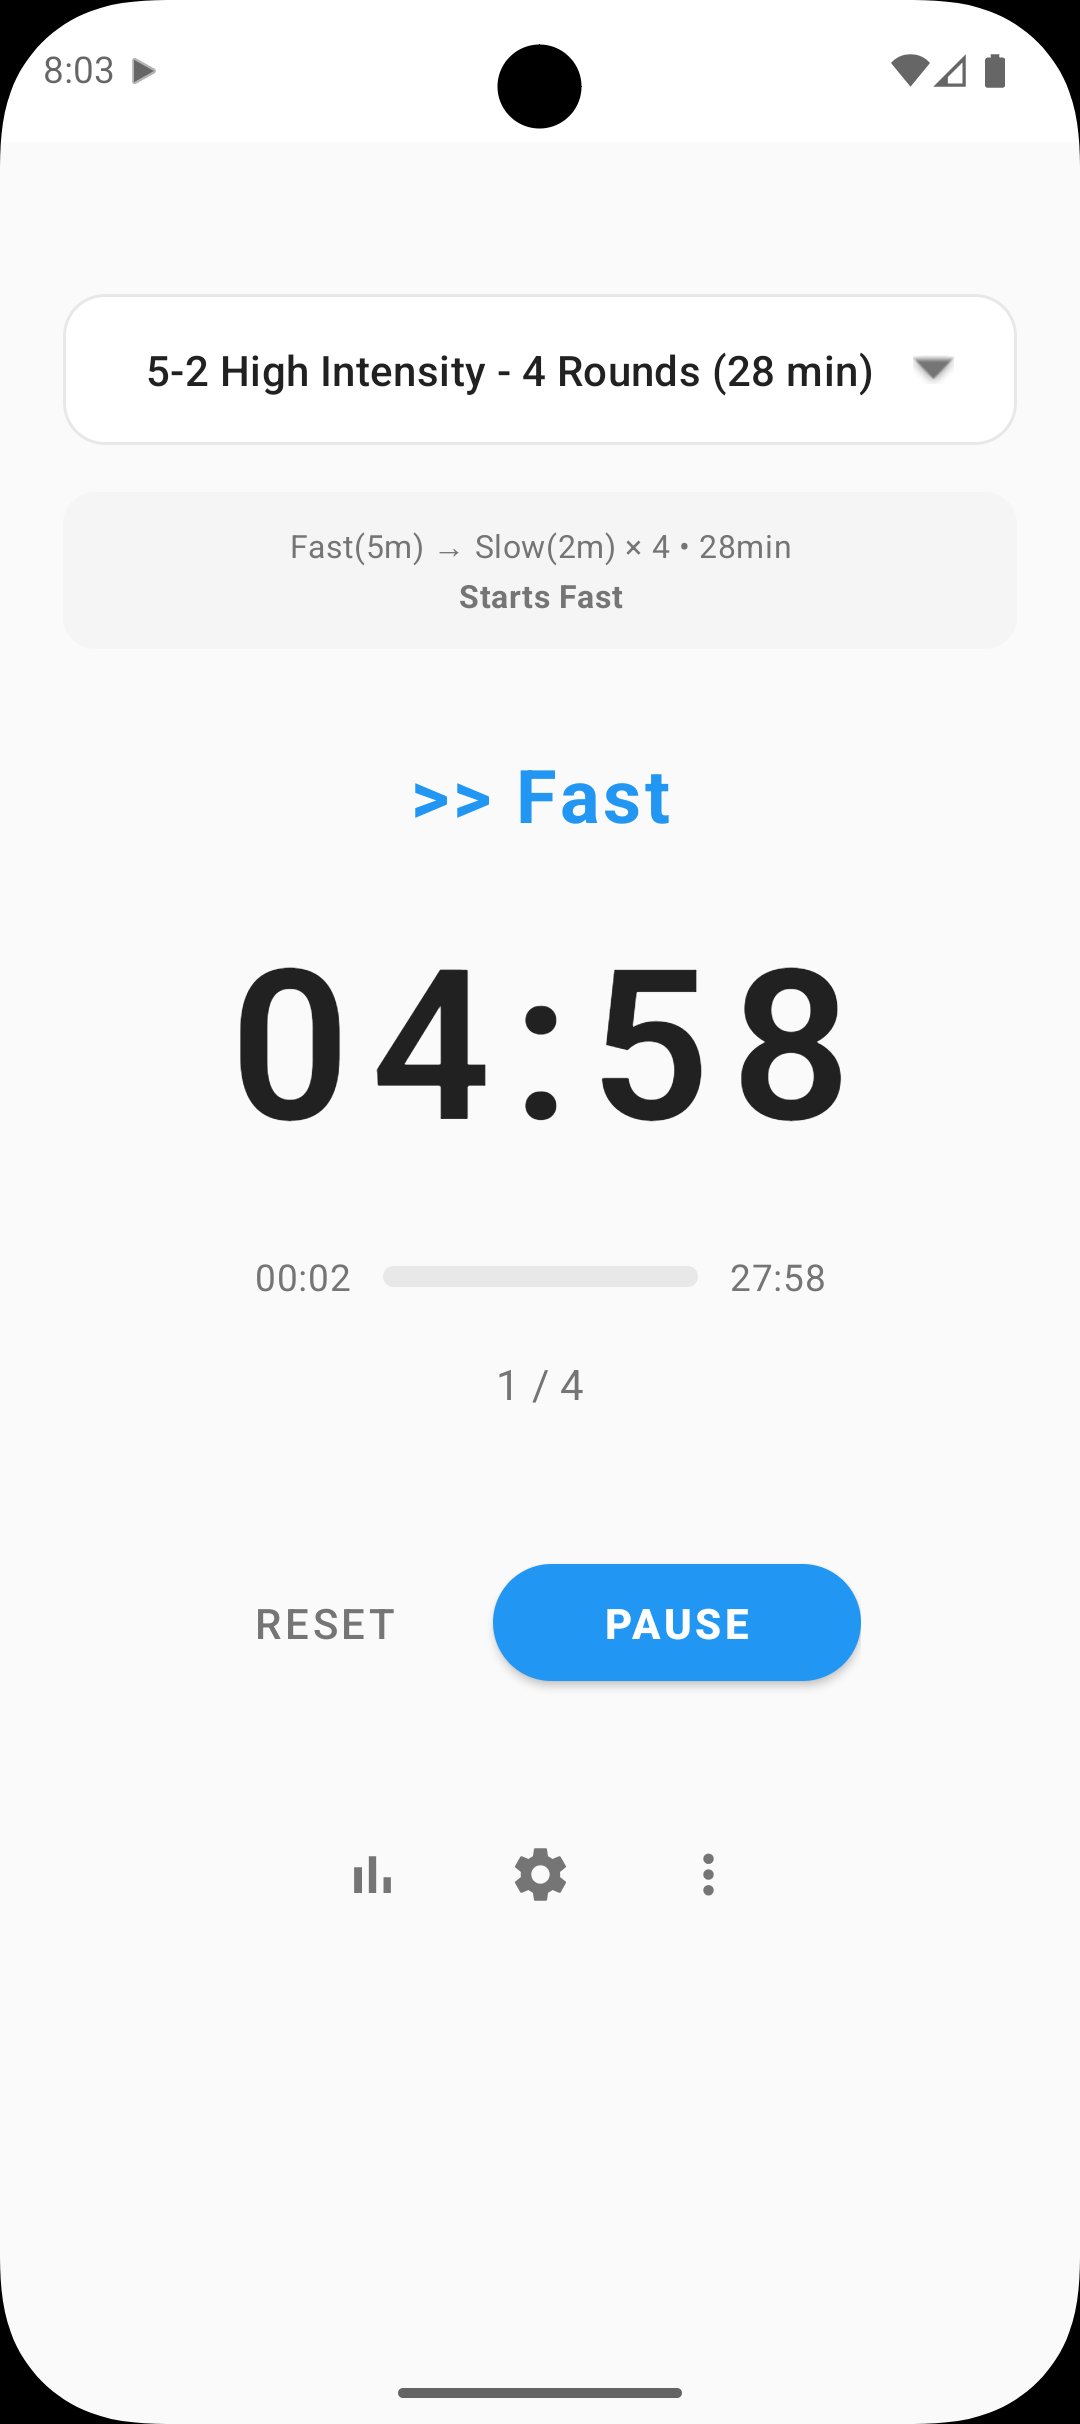
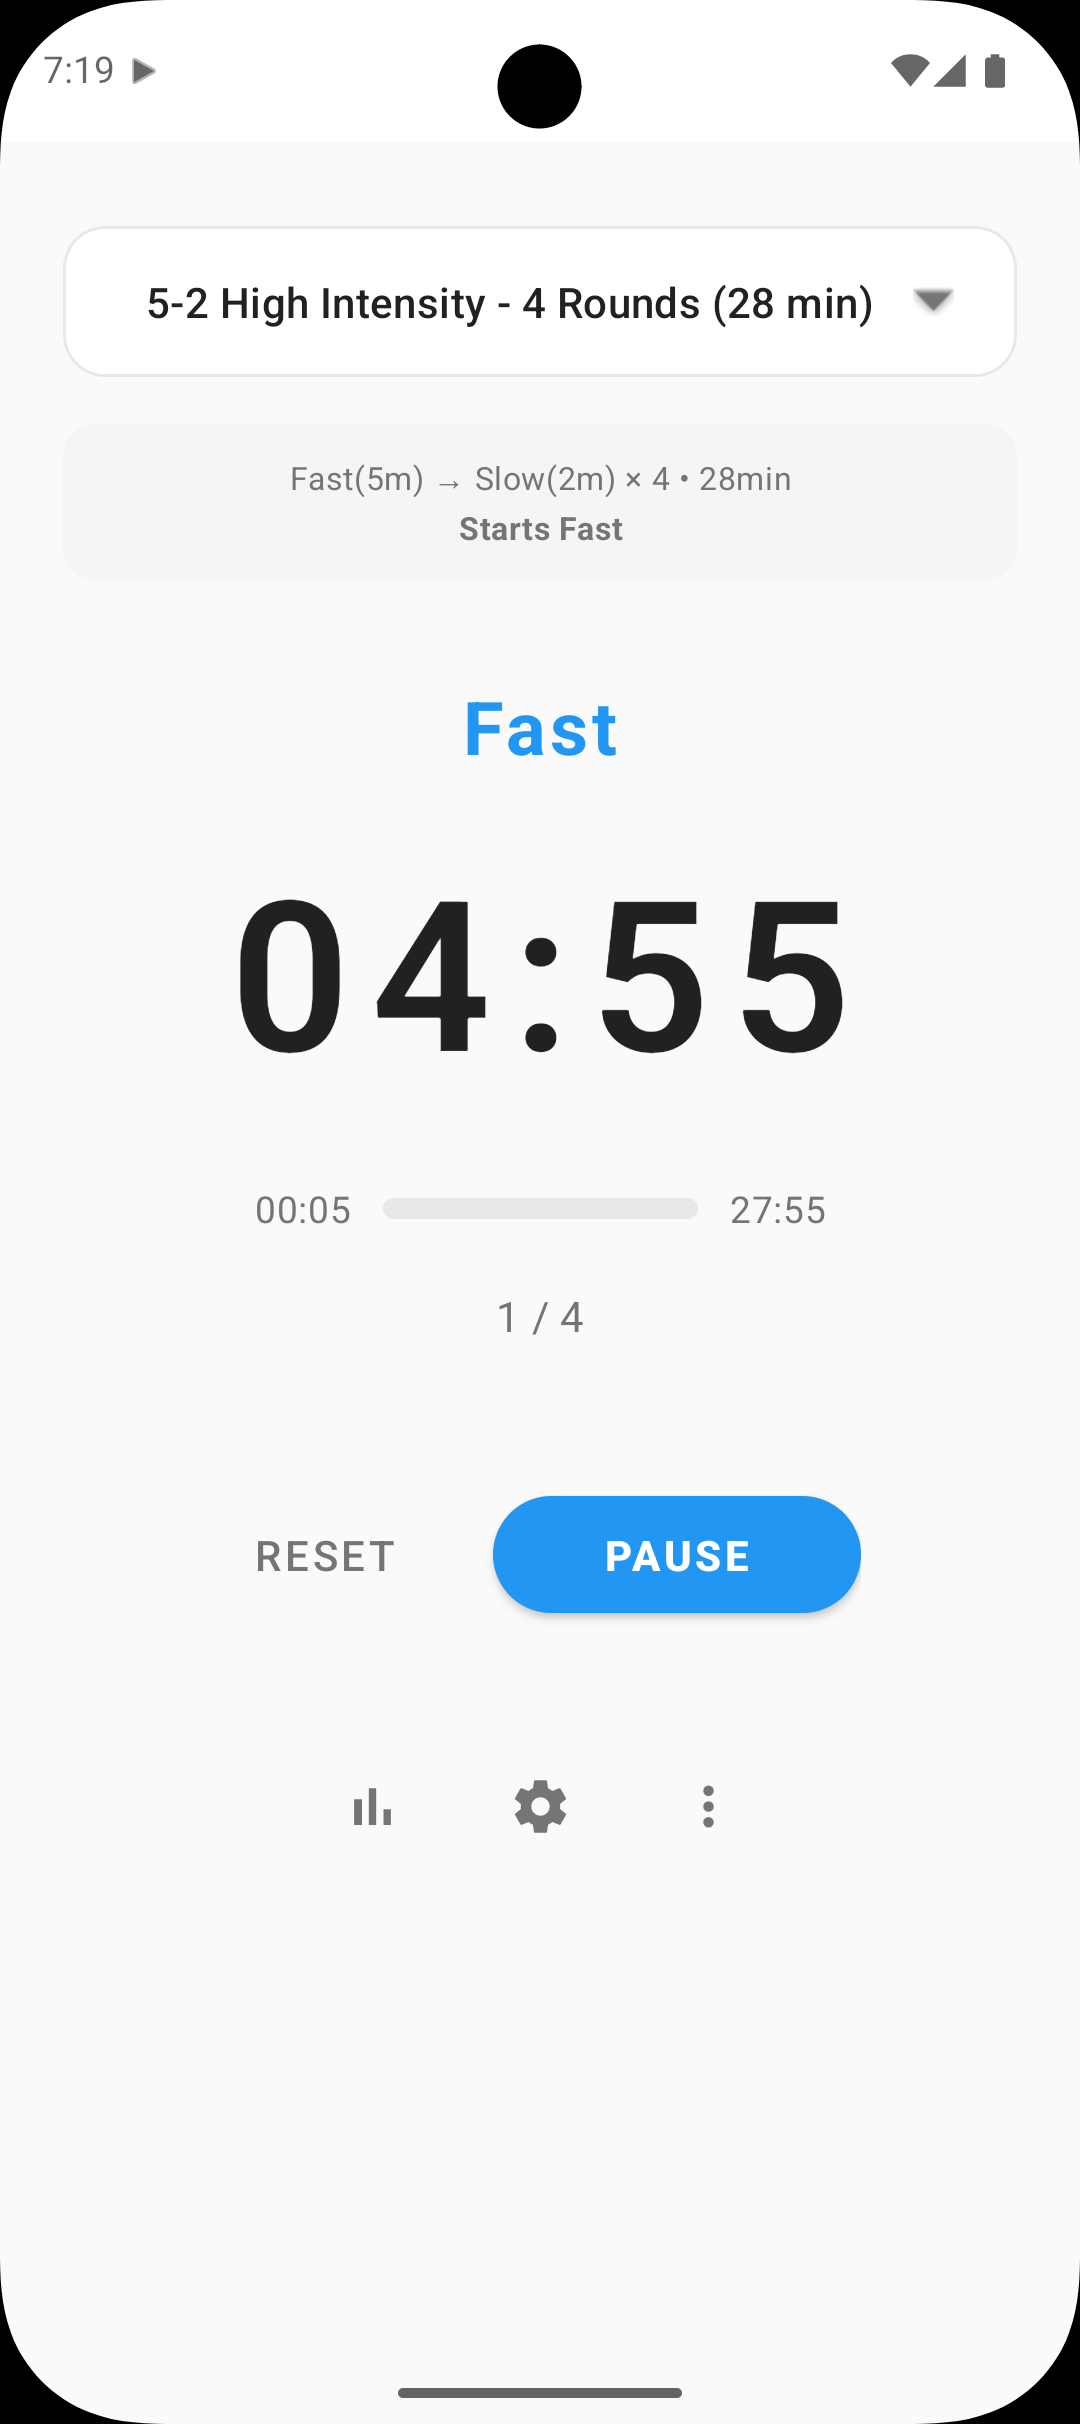
chore(release): v1.0.20
zero-trend badge, plain Slow/Fast labels, store assets

diff --git a/app/src/main/java/com/oceanofmaya/intervalwalktrainer/StatsActivity.kt b/app/src/main/java/com/oceanofmaya/intervalwalktrainer/StatsActivity.kt
@@ -669,8 +669,18 @@ class StatsActivity : AppCompatActivity() {
                 arrowView.visibility = View.VISIBLE
                 percentView.visibility = View.GONE
             }
+            changePercent == 0.0 && previousValue > 0 -> {
+                // No change - show neutral indicator so both cards keep same badge row
+                val neutralColor = ContextCompat.getColor(this, R.color.text_secondary)
+                arrowView.text = "\u2212" // Unicode minus
+                arrowView.setTextColor(neutralColor)
+                arrowView.visibility = View.VISIBLE
+                percentView.text = getString(R.string.month_comparison_change, 0)
+                percentView.setTextColor(neutralColor)
+                percentView.visibility = View.VISIBLE
+            }
             else -> {
-                // No change or no data - hide badge
+                // No data - hide badge
                 arrowView.visibility = View.GONE
                 percentView.visibility = View.GONE
             }

diff --git a/CHANGELOG.md b/CHANGELOG.md
@@ -2,6 +2,14 @@
 
 ## Version 1
 
+### 1.0.20 - 2026-03-04
+
+#### UI/UX Improvements
+
+- **Workout History (Monthly Trend):** When a stat has no change vs previous month, show a neutral "−" and "0%" in secondary color so both trend cards keep a consistent badge row and the layout stays balanced.
+- **Timer phase labels:** Replaced "> Slow" / ">> Fast" with plain "Slow" and "Fast" for a minimal, balanced look.
+- Store screenshots and promo images updated.
+
 ### 1.0.19 - 2026-03-01
 
 #### Fixes
